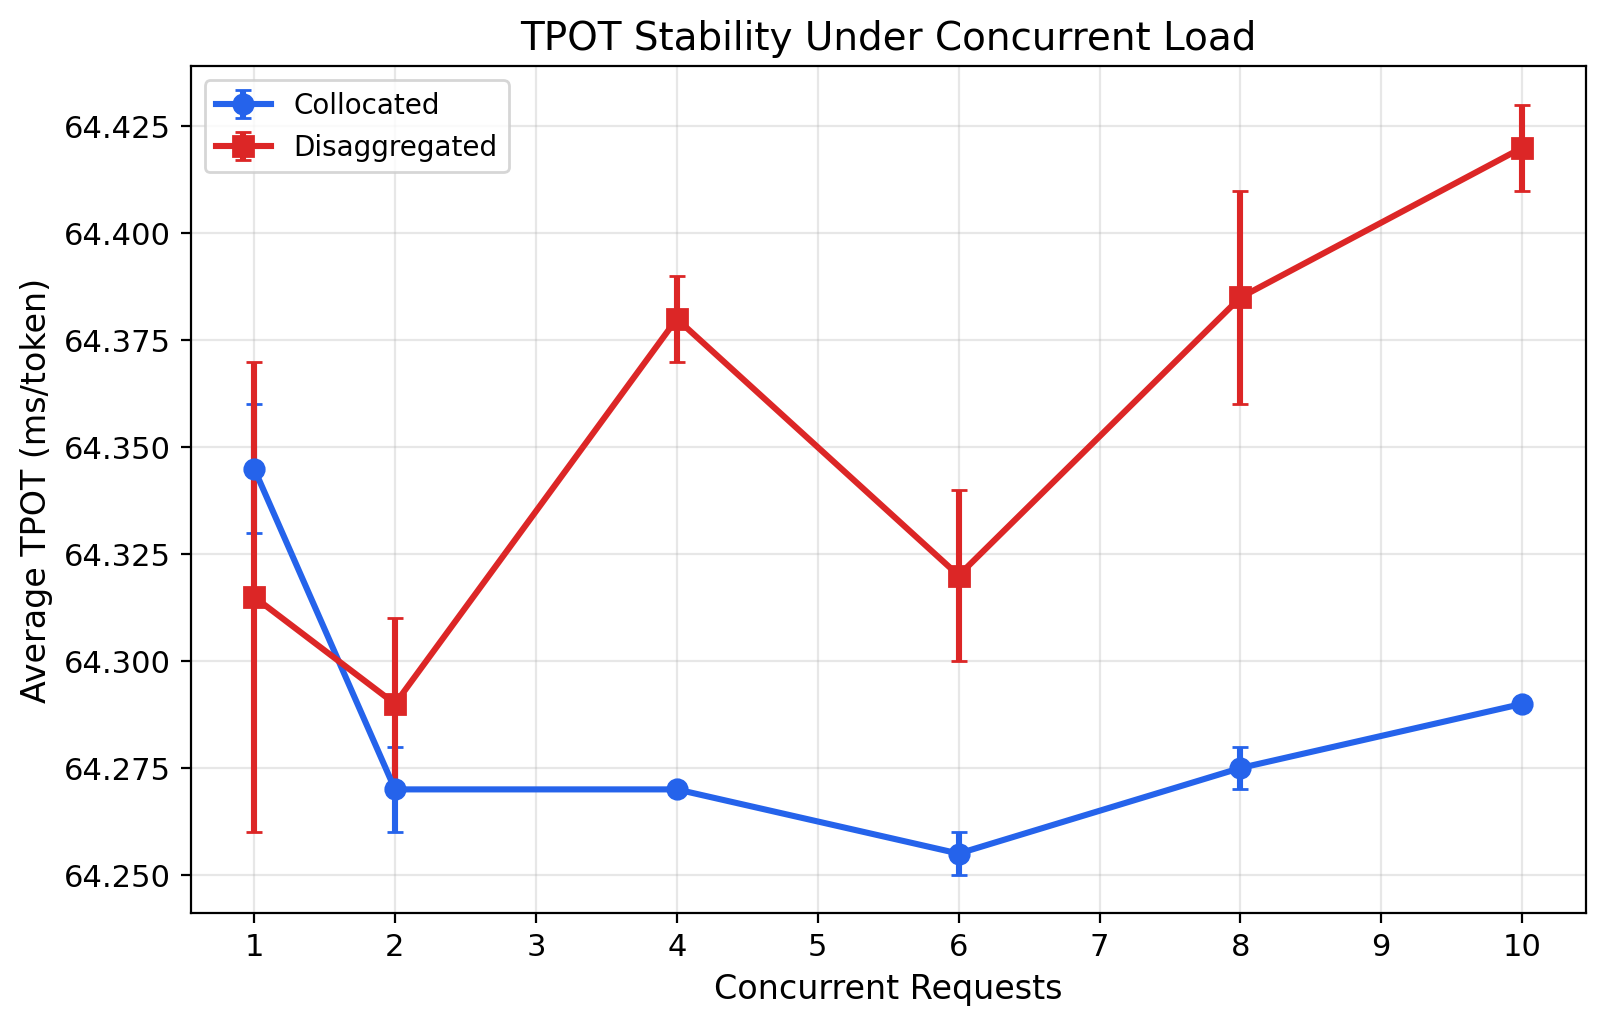
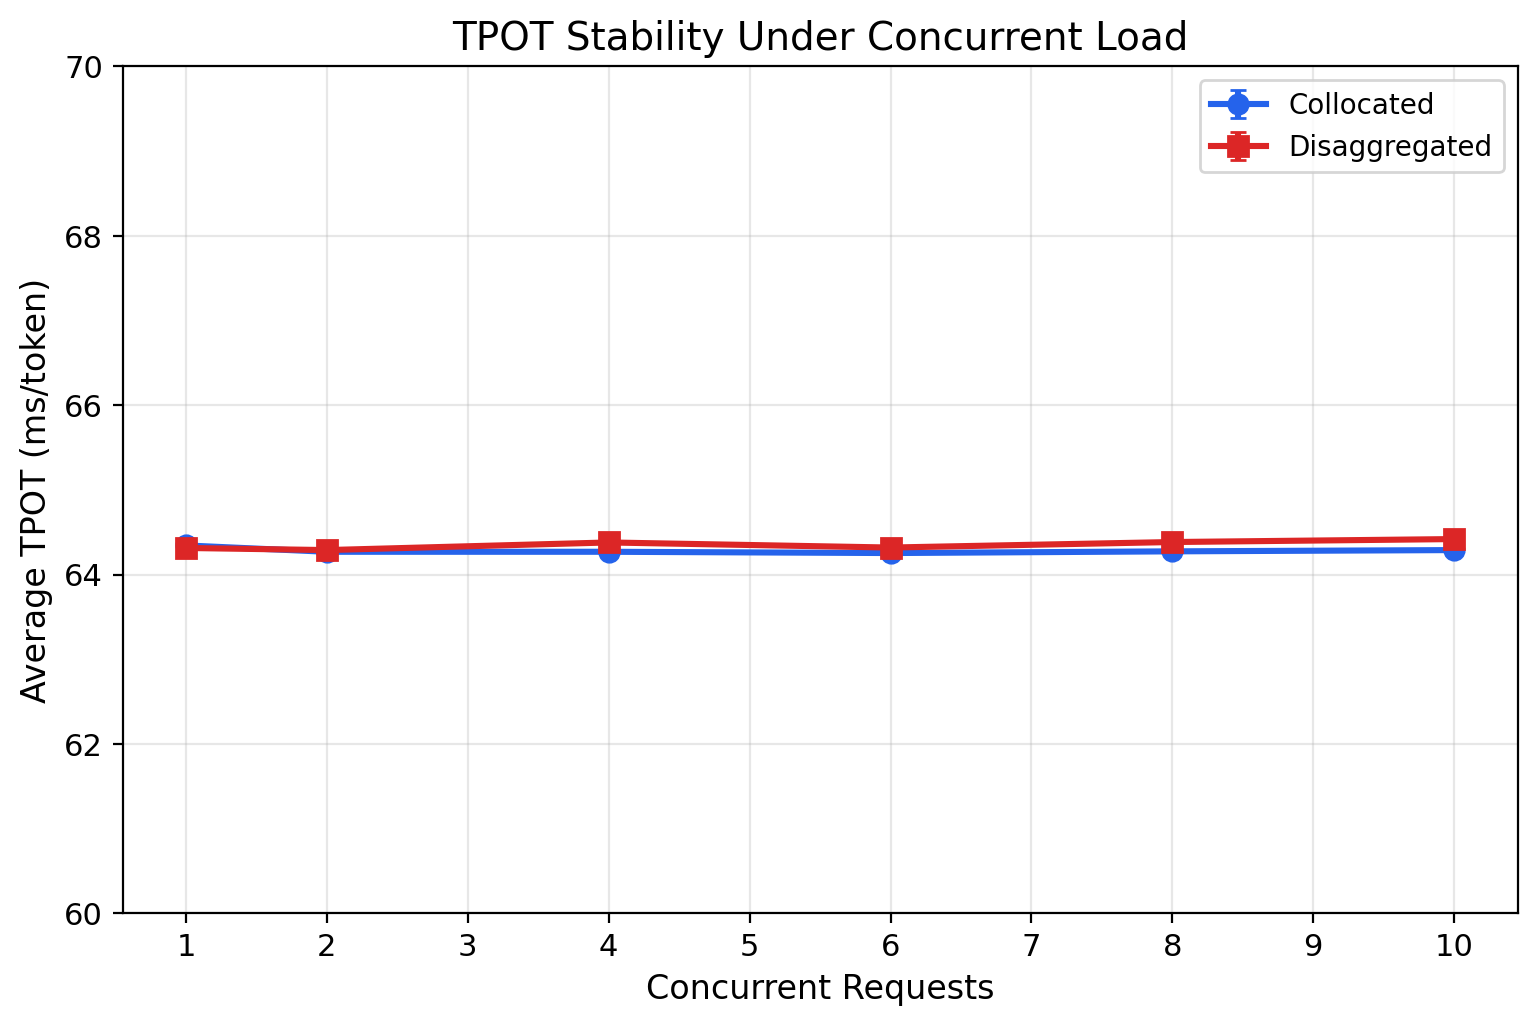
plots improved

diff --git a/benchmark/plot_results.py b/benchmark/plot_results.py
@@ -185,6 +185,7 @@ def plot_tpot_vs_length(coloc_csv, disag_csv, outdir):
     ax.set_xlabel("Prompt Length (tokens)")
     ax.set_ylabel("TPOT (ms/token)")
     ax.set_title("TPOT Stability vs Prompt Length")
+    ax.set_ylim(bottom=60, top=70) # Set fixed y-axis to show stability
     ax.legend()
 
     path = os.path.join(outdir, "tpot_vs_length.png")
@@ -242,6 +243,7 @@ def plot_concurrency_tpot(coloc_csv, disag_csv, outdir):
     ax.set_xlabel("Concurrent Requests")
     ax.set_ylabel("Average TPOT (ms/token)")
     ax.set_title("TPOT Stability Under Concurrent Load")
+    ax.set_ylim(bottom=60, top=70) # Set fixed y-axis to show stability
     ax.legend()
     ax.xaxis.set_major_locator(MaxNLocator(integer=True))
 